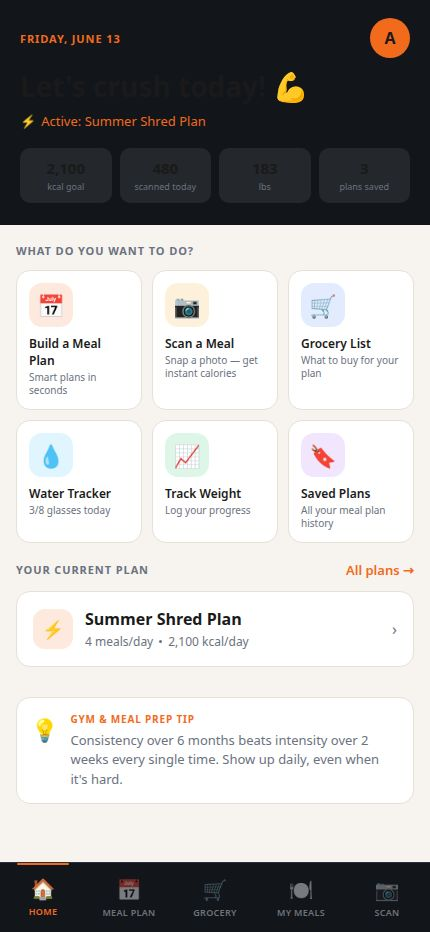
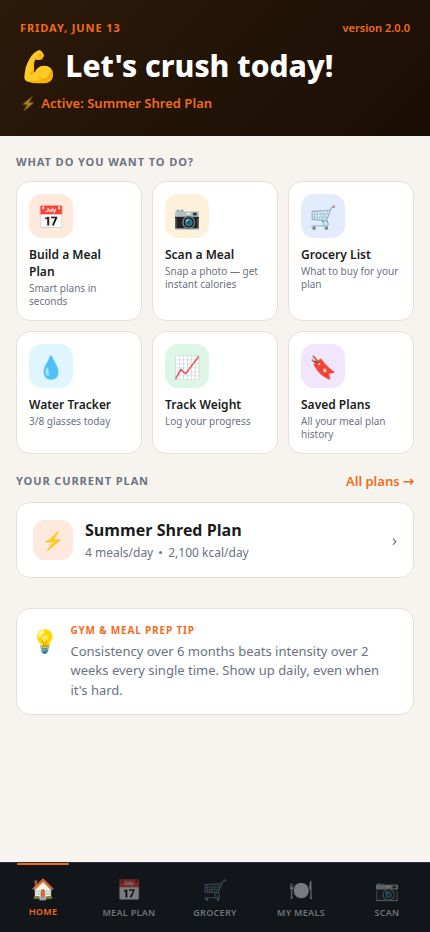
Update home screen layout with new version information and design
Update the hero section layout and styling in both the HTML mockup and the Android app to match the design of the prepfit.fit website, including a new background gradient, version number display, and motivational title formatting.

Replit-Commit-Author: Agent
Replit-Commit-Session-Id: 366c8a42-eaa5-40fb-9545-b218c470b2f4
Replit-Commit-Checkpoint-Type: full_checkpoint
Replit-Commit-Event-Id: 25203faf-bba6-44e5-96e4-01ca0f7ea48c
Replit-Commit-Screenshot-Url: https://storage.googleapis.com/screenshot-production-us-central1/840360d6-55f0-4f6a-9af5-ecb5804a7758/366c8a42-eaa5-40fb-9545-b218c470b2f4/TffndR5
Replit-Helium-Checkpoint-Created: true

diff --git a/artifacts/prepfit-android/app/(tabs)/index.tsx b/artifacts/prepfit-android/app/(tabs)/index.tsx
@@ -196,13 +196,11 @@ export default function DashboardScreen() {
               ])
             }
           >
-            <View style={s.avatar}>
-              <Text style={s.avatarText}>{displayName[0]?.toUpperCase()}</Text>
-            </View>
+            <Text style={s.heroVersion}>version 2.0.0</Text>
           </Pressable>
         </View>
 
-        <Text style={s.heroTitle}>{motivational}</Text>
+        <Text style={s.heroTitle}>💪 Let's crush today!</Text>
 
         {activePlan ? (
           <View style={s.heroPlanRow}>
@@ -219,26 +217,6 @@ export default function DashboardScreen() {
             </Text>
           </Pressable>
         )}
-
-        {/* Stats strip */}
-        <View style={s.statsRow}>
-          <View style={s.statPill}>
-            <Text style={s.statPillVal}>{activePlan?.dailyCalories ?? "—"}</Text>
-            <Text style={s.statPillLabel}>kcal goal</Text>
-          </View>
-          <View style={s.statPill}>
-            <Text style={s.statPillVal}>{todayCalories > 0 ? todayCalories : "—"}</Text>
-            <Text style={s.statPillLabel}>scanned today</Text>
-          </View>
-          <View style={s.statPill}>
-            <Text style={s.statPillVal}>{latestWeight ? `${latestWeight.weight}` : "—"}</Text>
-            <Text style={s.statPillLabel}>{latestWeight?.unit ?? "lbs"}</Text>
-          </View>
-          <View style={s.statPill}>
-            <Text style={s.statPillVal}>{plans?.length ?? 0}</Text>
-            <Text style={s.statPillLabel}>plans saved</Text>
-          </View>
-        </View>
       </View>
 
       {/* ── What do you want to do ─────────────────────────────────────────── */}
@@ -346,7 +324,7 @@ const styles = (colors: ReturnType<typeof useColors>) =>
 
     // Hero
     hero: {
-      backgroundColor: colors.sidebar,
+      backgroundColor: "#1C1208",
       paddingHorizontal: 20,
       paddingTop: 20,
       paddingBottom: 24,
@@ -355,7 +333,7 @@ const styles = (colors: ReturnType<typeof useColors>) =>
       flexDirection: "row",
       justifyContent: "space-between",
       alignItems: "center",
-      marginBottom: 12,
+      marginBottom: 14,
     },
     heroDate: {
       fontSize: 12,
@@ -363,59 +341,27 @@ const styles = (colors: ReturnType<typeof useColors>) =>
       color: colors.primary,
       letterSpacing: 0.8,
     },
-    avatar: {
-      width: 40,
-      height: 40,
-      borderRadius: 20,
-      backgroundColor: colors.primary,
-      alignItems: "center",
-      justifyContent: "center",
-    },
-    avatarText: {
-      fontSize: 16,
-      fontFamily: "Inter_700Bold",
-      color: "#FFF",
+    heroVersion: {
+      fontSize: 12,
+      fontFamily: "Inter_600SemiBold",
+      color: colors.primary,
     },
     heroTitle: {
       fontSize: 30,
-      fontFamily: "Inter_700Bold",
+      fontFamily: "Inter_800ExtraBold" as any,
       color: "#FFFFFF",
-      marginBottom: 8,
+      marginBottom: 10,
       lineHeight: 36,
     },
     heroPlanRow: {
       flexDirection: "row",
       alignItems: "center",
       gap: 6,
-      marginBottom: 20,
     },
     heroPlanText: {
       fontSize: 13,
       fontFamily: "Inter_400Regular",
-      color: "rgba(255,255,255,0.65)",
-    },
-    statsRow: {
-      flexDirection: "row",
-      gap: 8,
-    },
-    statPill: {
-      flex: 1,
-      borderRadius: 10,
-      padding: 10,
-      alignItems: "center",
-      backgroundColor: "rgba(255,255,255,0.10)",
-    },
-    statPillVal: {
-      fontSize: 16,
-      fontFamily: "Inter_700Bold",
-      color: "#FFFFFF",
-    },
-    statPillLabel: {
-      fontSize: 9,
-      fontFamily: "Inter_400Regular",
-      color: "rgba(255,255,255,0.5)",
-      marginTop: 2,
-      textAlign: "center",
+      color: "rgba(255,255,255,0.60)",
     },
 
     // Sections

diff --git a/artifacts/meal-prep/public/app-screens.html b/artifacts/meal-prep/public/app-screens.html
@@ -122,28 +122,16 @@
      SCREEN 1 — HOME DASHBOARD
   ═══════════════════════════════════════════════════════ */
   .hero {
-    background: var(--sidebar);
-    padding: 18px 20px 22px;
+    background: linear-gradient(135deg, #2C1A0A 0%, #1A0D05 100%);
+    padding: 20px 20px 24px;
+    color: #fff;
   }
-  .hero-top { display: flex; justify-content: space-between; align-items: center; margin-bottom: 12px; }
+  .hero-top { display: flex; justify-content: space-between; align-items: center; margin-bottom: 14px; }
   .hero-date { font-size: 11px; font-weight: 700; color: var(--primary); letter-spacing: 0.9px; }
-  .avatar {
-    width: 40px; height: 40px; border-radius: 20px;
-    background: var(--primary);
-    display: flex; align-items: center; justify-content: center;
-    font-size: 16px; font-weight: 700;
-  }
-  .hero-title { font-size: 28px; font-weight: 700; margin-bottom: 8px; line-height: 1.2; }
-  .hero-plan { font-size: 13px; color: var(--muted); display: flex; align-items: center; gap: 5px; margin-bottom: 18px; }
-  .hero-plan span { color: var(--primary); }
-  .stats-row { display: flex; gap: 8px; }
-  .stat-pill {
-    flex: 1; border-radius: 10px; padding: 10px 8px;
-    background: rgba(255,255,255,0.08);
-    display: flex; flex-direction: column; align-items: center;
-  }
-  .stat-val { font-size: 15px; font-weight: 700; }
-  .stat-label { font-size: 9px; color: var(--muted); margin-top: 2px; text-align: center; }
+  .hero-version { font-size: 11px; font-weight: 600; color: var(--primary); }
+  .hero-title { font-size: 30px; font-weight: 800; margin-bottom: 10px; line-height: 1.15; color: #fff; }
+  .hero-plan { font-size: 13px; color: rgba(255,255,255,0.6); display: flex; align-items: center; gap: 5px; }
+  .hero-plan span { color: var(--primary); font-weight: 600; }
 
   .section { padding: 18px 16px 0; }
   .section-title { font-size: 11px; font-weight: 700; color: var(--muted); letter-spacing: 0.9px; margin-bottom: 12px; }
@@ -586,16 +574,10 @@
   <div class="hero">
     <div class="hero-top">
       <div class="hero-date">FRIDAY, JUNE 13</div>
-      <div class="avatar">A</div>
+      <div class="hero-version">version 2.0.0</div>
     </div>
-    <div class="hero-title">Let's crush today! 💪</div>
+    <div class="hero-title">💪 Let's crush today!</div>
     <div class="hero-plan">⚡ <span>Active: Summer Shred Plan</span></div>
-    <div class="stats-row">
-      <div class="stat-pill"><div class="stat-val">2,100</div><div class="stat-label">kcal goal</div></div>
-      <div class="stat-pill"><div class="stat-val">480</div><div class="stat-label">scanned today</div></div>
-      <div class="stat-pill"><div class="stat-val">183</div><div class="stat-label">lbs</div></div>
-      <div class="stat-pill"><div class="stat-val">3</div><div class="stat-label">plans saved</div></div>
-    </div>
   </div>
 
   <div class="scroll">
